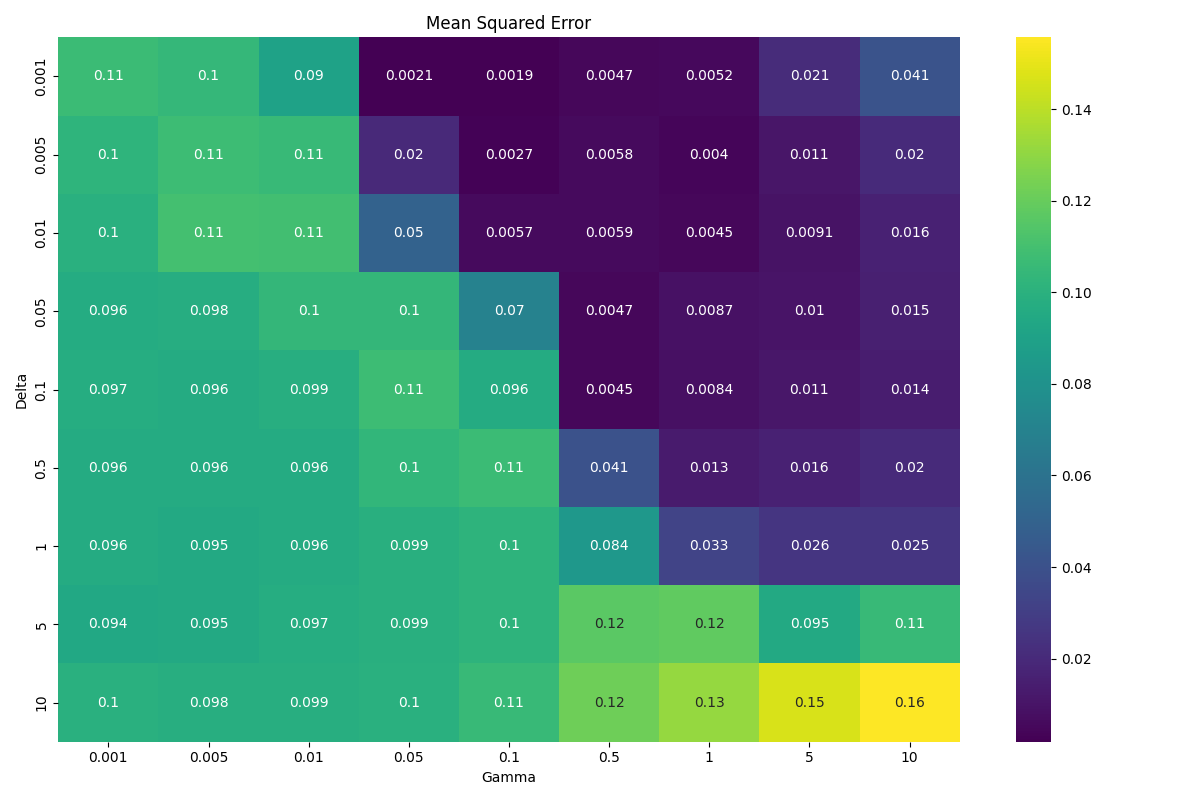
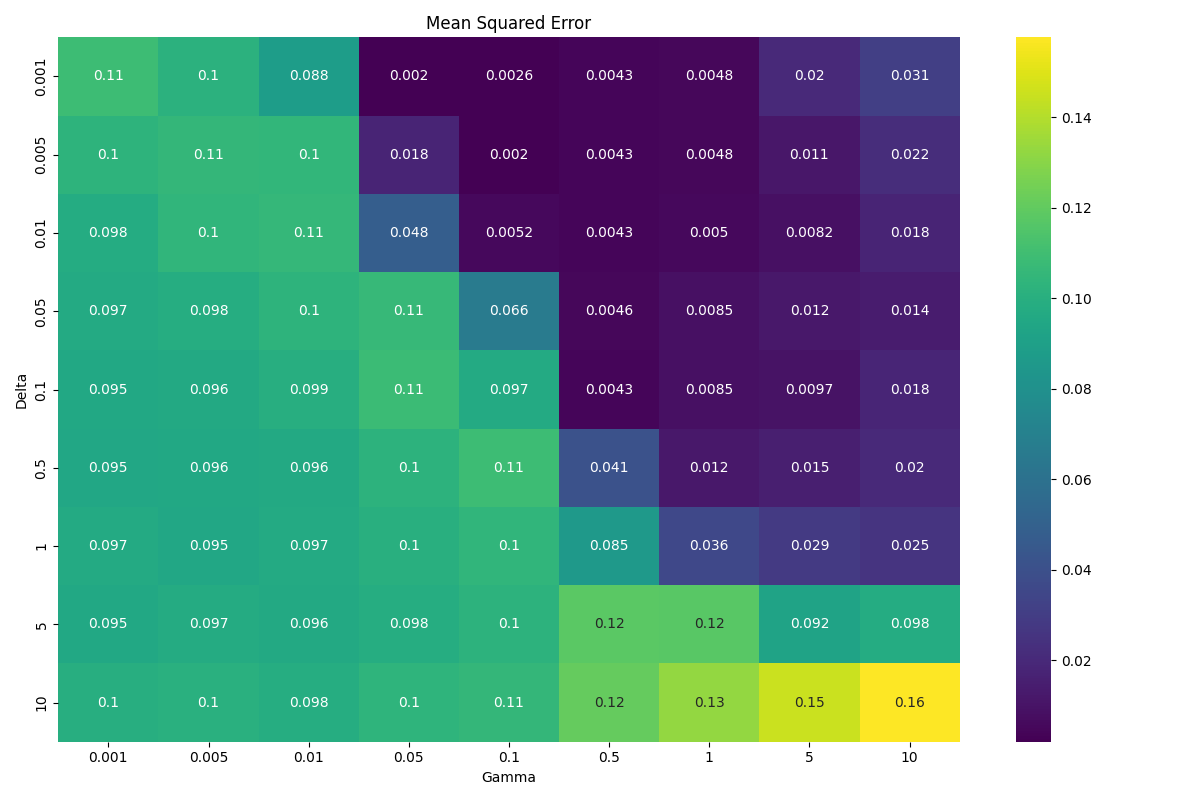
Optimize solution of 11th assignment - Implement RidgeRegression as class - Rework experiment structure - Add option to run experiments in parallel

diff --git a/assignment_11.py b/assignment_11.py
@@ -1,69 +1,15 @@
 import itertools
 import time
+import multiprocessing as mp
 import matplotlib.pyplot as plt
 import numpy as np
 import seaborn as sns
-from sklearn.metrics import mean_squared_error
 from tqdm import tqdm
+from Models import RidgeRegression, run_experiment_for_settings
 
-
-def determine_weights_ridge(x_values: np.ndarray, y_values: np.ndarray, gamma: float, delta: float) -> np.ndarray:
-    """
-    Determine the weights for the given x and y values using the kernel trick. The weights are calculated using the
-    pseudo inverse of the kernel matrix. The kernel matrix is calculated using the RBF kernel.
-
-    :param x_values: x values as a numpy array.
-    :param y_values: y values as a numpy array.
-    :param gamma: Gamma value for the RBF kernel.
-    :param delta: Lambda value for the ridge regression.
-    :return: Weights as a numpy array.
-    """
-    # Build Phi matrix
-    meshgrid = np.meshgrid(x_values, x_values)
-    phi = np.exp(-gamma * (meshgrid[1] - meshgrid[0]) ** 2)
-
-    # Calculate the weights
-    inverse = np.linalg.inv(np.dot(phi.T, phi) + (delta ** 2 * np.eye(len(phi))))
-    w = np.dot(np.dot(inverse, phi.T), y_values)
-    return w
-
-
-def run_experiment_for_settings(n_points: int, n_experiments: int, lower: float, upper: float, gamma: float,
-                                delta: float) -> float:
-    """
-    Run multiple experiments for the given settings and return the average MSE.
-
-    :param n_points: Number of points to sample.
-    :param n_experiments: Number of experiments to run.
-    :param lower: Lower bound of the x values.
-    :param upper: Upper bound of the x values.
-    :param gamma: Gamma value for the RBF kernel.
-    :param delta: Lambda value for the ridge regression.
-    :return: Mean of the MSE values.
-    """
-    # Run the experiment multiple times
-    mse = []
-    successful_runs = 0
-    while successful_runs < n_experiments:
-        try:
-            # Sample x values and calculate the respective y with noise
-            x_values = np.random.uniform(low=lower, high=upper, size=n_points)
-            y_values = x_values ** 2 + np.random.normal(loc=0, scale=0.1, size=n_points)
-
-            # Calculate the weights
-            w = determine_weights_ridge(x_values=x_values, y_values=y_values, gamma=gamma, delta=delta)
-
-            # Make prediction for every x values between -1 and 1
-            x_ticks = np.linspace(lower, upper, 200)
-            y_pred = np.array([np.sum(w * np.exp(-gamma * (x_values - new_x) ** 2)) for new_x in x_ticks])
-
-            # Calculate the mean squared error
-            mse.append(mean_squared_error(y_true=x_ticks ** 2, y_pred=y_pred))
-            successful_runs += 1
-        except np.linalg.LinAlgError:
-            pass
-
-    return np.mean(mse)
+# Set up parameters
+USE_THREADING = True
+N_THREADS = 4
 
 
 def delta_experiments(n_points: int = 20, lower: int = -1, upper: int = 1, gamma: float = 1.0):
@@ -88,11 +34,11 @@ def delta_experiments(n_points: int = 20, lower: int = -1, upper: int = 1, gamma
 
     # Use different values for delta to fit the data
     for d, ax in zip([0, 0.01, 0.1, 1, 10, 100], axs):
-        # Get the weights
-        w = determine_weights_ridge(x_values=x_values, y_values=y_values, gamma=gamma, delta=d)
+        # Fit a model
+        model = RidgeRegression(gamma=gamma, delta=d).fit(features=x_values, labels=y_values)
 
-        # Make prediction for every x values between -1 and 1
-        y_pred = np.array([np.sum(w * np.exp(-gamma * (x_values - new_x) ** 2)) for new_x in x_ticks])
+        # Make prediction for every x value
+        y_pred = model.predict(x_ticks)
 
         # Plot the predictions
         ax.scatter(x_values, y_values, label='Data Points')
@@ -120,10 +66,9 @@ def combined_experiments(n_points: int = 20, n_experiments: int = 100, lower: in
     # Set up the different values for delta and gamma
     delta_values = [0.001, 0.005, 0.01, 0.05, 0.1, 0.5, 1, 5, 10]
     gamma_values = [0.001, 0.005, 0.01, 0.05, 0.1, 0.5, 1, 5, 10]
-    experiment_settings = list(itertools.product(delta_values, gamma_values))
-
-    # Create a matrix to store the results
-    results = np.zeros((len(delta_values), len(gamma_values)))
+    experiment_settings = [{'delta': delta, 'gamma': gamma, 'n_points': n_points, 'n_experiments': n_experiments,
+                            'lower': lower, 'upper': upper}
+                           for delta, gamma in itertools.product(delta_values, gamma_values)]
 
     # Measure the time
     start = time.time()
@@ -131,11 +76,22 @@ def combined_experiments(n_points: int = 20, n_experiments: int = 100, lower: in
     # Run the experiments
     print('Running experiments...')
     np.random.seed(0)
-    for delta, gamma in tqdm(experiment_settings):
-        # Store the mean of the mean squared errors
-        i, j = delta_values.index(delta), gamma_values.index(gamma)
-        results[i, j] = run_experiment_for_settings(n_points=n_points, n_experiments=n_experiments, lower=lower,
-                                                    upper=upper, gamma=gamma, delta=delta)
+
+    # Run the experiments in parallel or sequentially
+    if USE_THREADING:
+        with mp.Pool(processes=N_THREADS) as pool:
+            results = pool.map(run_experiment_for_settings, experiment_settings)
+
+        results = np.array(results).reshape(len(delta_values), len(gamma_values))
+    else:
+        # Create a matrix to store the results
+        results = np.zeros((len(delta_values), len(gamma_values)))
+
+        # Run the experiments
+        for settings in tqdm(experiment_settings):
+            # Store the mean of the mean squared errors
+            i, j = delta_values.index(settings['delta']), gamma_values.index(settings['gamma'])
+            results[i, j] = run_experiment_for_settings(settings=settings)
 
     # Measure the time
     end = time.time()

diff --git a/Models/Regression.py b/Models/Regression.py
@@ -1,0 +1,140 @@
+from typing import Dict, Union
+import numpy as np
+from sklearn.metrics import mean_squared_error
+from .Model import BaseModel
+from sklearn import metrics
+
+LOSS_MAPPING = {'mse': metrics.mean_squared_error, 'mae': metrics.mean_absolute_error}
+
+
+class RidgeRegression(BaseModel):
+    """
+    This class implements the ridge regression model.
+    """
+    def __init__(self, gamma: float = 1.0, delta: float = 0.0, loss: str = 'mse'):
+        """
+        Initialize the model.
+
+        :param gamma: Gamma value for the RBF kernel.
+        :param delta: Lambda value for the ridge regression.
+        :param loss: Loss function to use. Either 'mse' or 'mae'.
+        """
+        # Check the input parameters
+        assert isinstance(gamma, (float, int)), 'Gamma must be a numeric.'
+        assert isinstance(delta, (float, int)), 'Delta must be a numeric.'
+        assert isinstance(loss, str), 'Loss must be a string.'
+        assert loss in LOSS_MAPPING.keys(), f'Loss must be one of the following: {LOSS_MAPPING.keys()}'
+
+        # Initialize the parameters
+        self.weights: np.ndarray = np.zeros(0)
+        self.values: np.ndarray = np.zeros(0)
+        self.gamma: float = gamma
+        self.delta: float = delta
+        self.loss = LOSS_MAPPING[loss]
+
+    def fit(self, features: np.ndarray, labels: np.ndarray) -> 'RidgeRegression':
+        """
+        Fit the model to the given data. The weights are calculated using the pseudo inverse of the kernel matrix. The
+        kernel matrix is calculated using the RBF kernel.
+
+        :param features: Features as a numpy array.
+        :param labels: Labels as a numpy array.
+        :return: Self.
+        """
+        # Determine the weights
+        self.weights = determine_weights_ridge(x_values=features, y_values=labels, gamma=self.gamma, delta=self.delta)
+        self.values = features
+        self.is_fitted = True
+
+        # Return the fitted model
+        return self
+
+    def predict(self, features: np.ndarray):
+        """
+        Predict the targets for the given features.
+
+        :param features: Features as a numpy array.
+        :return: Predicted targets as a numpy array.
+        :raises ValueError: If the model has not been fitted yet.
+        """
+        if not self.is_fitted:
+            raise ValueError("The model has not been fitted yet.")
+
+        # Make prediction for every x value using vectorization
+        y_pred = np.array([np.sum(self.weights * np.exp(-self.gamma * (self.values - new_x) ** 2))
+                           for new_x in features])
+        return y_pred.squeeze()
+
+    def evaluate(self, features: np.ndarray, labels: np.ndarray) -> float:
+        """
+        Evaluate the model on the given data.
+
+        :param features: Features as a numpy array.
+        :param labels: Labels as a numpy array.
+        :return: The loss values.
+        :raises ValueError: If the model has not been fitted yet.
+        """
+        if not self.is_fitted:
+            raise ValueError("The model has not been fitted yet.")
+
+        # Calculate the loss
+        y_pred = self.predict(features).squeeze()
+        return self.loss(y_true=labels, y_pred=y_pred)
+
+
+def determine_weights_ridge(x_values: np.ndarray, y_values: np.ndarray, gamma: float, delta: float) -> np.ndarray:
+    """
+    Determine the weights for the given x and y values using the kernel trick. The weights are calculated using the
+    pseudo inverse of the kernel matrix. The kernel matrix is calculated using the RBF kernel.
+
+    :param x_values: x values as a numpy array.
+    :param y_values: y values as a numpy array.
+    :param gamma: Gamma value for the RBF kernel.
+    :param delta: Lambda value for the ridge regression.
+    :return: Weights as a numpy array.
+    """
+    # Build Phi matrix
+    meshgrid = np.meshgrid(x_values, x_values)
+    phi = np.exp(-gamma * (meshgrid[1] - meshgrid[0]) ** 2)
+
+    # Calculate the weights
+    inverse = np.linalg.inv(np.dot(phi.T, phi) + (delta ** 2 * np.eye(len(phi))))
+    w = np.dot(np.dot(inverse, phi.T), y_values)
+    return w
+
+
+def run_experiment_for_settings(settings: Dict[str, Union[float, int]]) -> float:
+    """
+    Run multiple experiments for the given settings and return the average MSE.
+
+    :param settings: Dictionary containing the settings.
+    :return: Mean of the MSE values.
+    """
+    # Get the settings
+    n_points = settings['n_points']
+    n_experiments = settings['n_experiments']
+    lower = settings['lower']
+    upper = settings['upper']
+    gamma = settings['gamma']
+    delta = settings['delta']
+
+    # Run the experiment multiple times
+    mse = []
+    successful_runs = 0
+    while successful_runs < n_experiments:
+        try:
+            # Sample x values and calculate the respective y with noise
+            x_values = np.random.uniform(low=lower, high=upper, size=n_points)
+            y_values = x_values ** 2 + np.random.normal(loc=0, scale=0.1, size=n_points)
+
+            # Create the model and fit it
+            model = RidgeRegression(gamma=gamma, delta=delta).fit(features=x_values, labels=y_values)
+
+            # Make predictions
+            x_ticks = np.linspace(lower, upper, 200)
+            mse.append(mean_squared_error(y_true=x_ticks ** 2, y_pred=model.predict(x_ticks)))
+            successful_runs += 1
+        except np.linalg.LinAlgError:
+            pass
+
+    return np.mean(mse)

diff --git a/Models/Model.py b/Models/Model.py
@@ -1,0 +1,24 @@
+import abc
+import numpy as np
+
+
+class BaseModel(abc.ABC):
+    @abc.abstractmethod
+    def __init__(self):
+        self.is_fitted = False
+
+    @abc.abstractmethod
+    def fit(self, features: np.ndarray, labels: np.ndarray):
+        self.is_fitted = True
+
+    @abc.abstractmethod
+    def predict(self, features: np.ndarray):
+        pass
+
+    def fit_predict(self, features, labels):
+        self.fit(features, labels)
+        return self.predict(features)
+
+    @abc.abstractmethod
+    def evaluate(self, features: np.ndarray, labels: np.ndarray) -> float:
+        pass

diff --git a/Models/__init__.py b/Models/__init__.py
@@ -1,0 +1,1 @@
+from .Regression import RidgeRegression, determine_weights_ridge, run_experiment_for_settings
